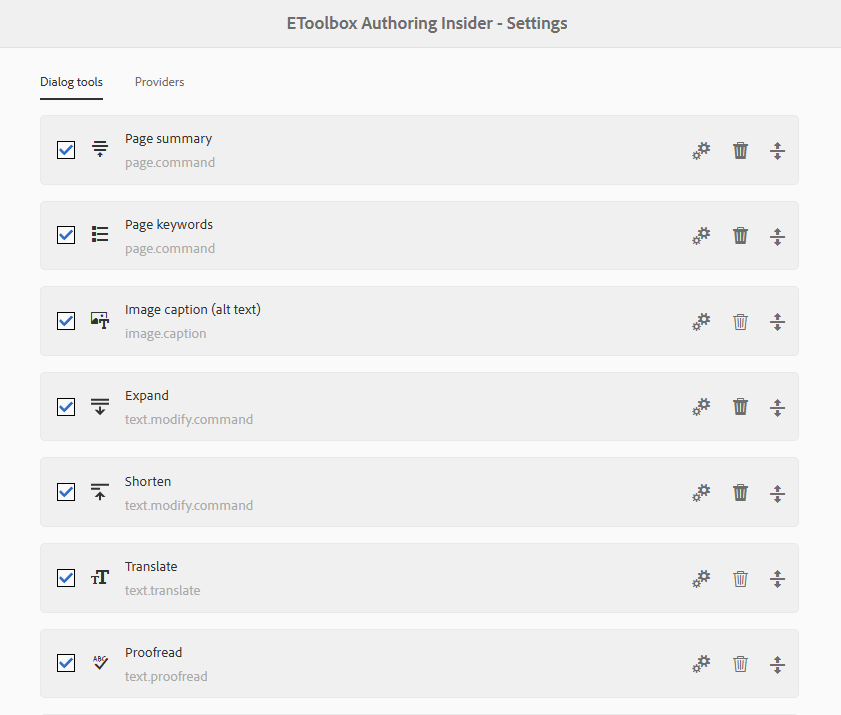
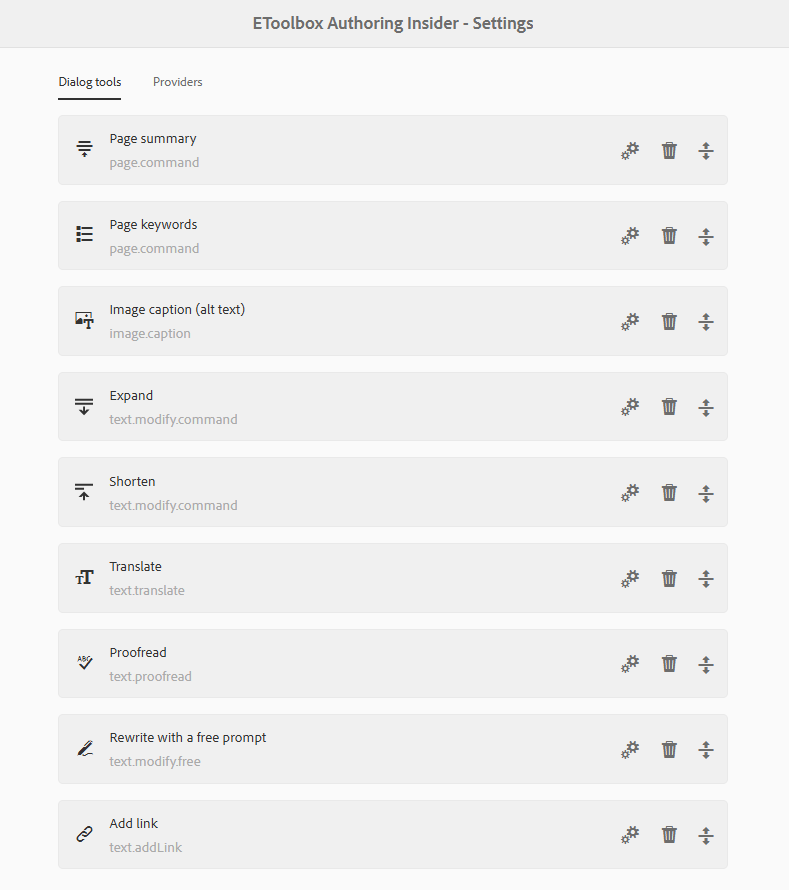
[Tech] Updated the "Setup" section of docs

diff --git a/docs/setup.md b/docs/setup.md
@@ -6,32 +6,33 @@ Follow the _Insider_'s icon to the "EToolbox Authoring Insider - Settings" page.
 
 ### Dialog tools
 
-The *Dialog tools* tab is the list of present tools. Each of the tools can be enabled or disabled with a checkbox. Those tools that are deactivated will not be displayed in tool dropdowns in AEM dialogs.
+The *Dialog tools* tab is the list of present tools. The tools can be dragged up and down. This will, naturally, change their order in a tool dropdown in an AEM dialog.
 
-The tools can be dragged up and down. This will, naturally, change their order in a tool dropdown in an AEM dialog.
-
-The tools can be deleted/cleaned up as well. Mind that a tool that is essentially a variation of a common templated (such as "Expand text") can be removed completely. But a tool which is unique for its own template (such as "Image caption") can only be "cleaned up." That is, the current settings of the tool are erased, but the "template" remains there and can only be disabled. Owing to this, a user always sees all the tools/templates that are technically available and is able to activate or deactivate them as they need.
+You can deactivate or delete a tool by clicking the "Delete" button. If a tool is a variation of common template (_e.g., "Expand text" which is a variation of "Text-modifying command"_), this variation is removed completely. But if a tool is singular (_e.g., "Image caption"_), it is essentially disabled and can be brought back later on." 
 
 Every tool can be modified by clicking the "Properties" button which opens a properties dialog. Usually the dialog allows altering the title and icon of the tool as well as its enabled status. For AI-powered tools, there is also the possibility to modify prompts and other parameters.
 
 ![Tool properties](img/tool-props.png)
 
+New tools are added by clicking the "Add tool" button. A dialog will open showing templates of tool variations that you can initialize plus the previously disabled tools that you can restore. After you select an option, the property dialog will appear on the screen for the new addition.
+After submitting the dialog, drag the newly created item to a desired position in the list.
+
+!["Add tool" dialog](img/tool-add.png)
+
 #### Field selection
 
 Many tools offer the way to control "Field selection," that is, to what dialog fields in what areas the tool will attach. This setting is a multifield. Every entry is a sort of "rule" that defines the "visibility" of a tool.
 
-A "rule" can be simply a CSS-style selector. Else it can contain one or more key-value pairs optionally preceded by a scope flag and optionally followed by a selector.
+A "rule" can be simply a CSS-style selector. Else it can contain one or more key-value pairs optionally preceded by a "required" flag and optionally followed by a selector.
 ```
-@ name=title|description attribute = "data-attribute" .my-title
+@ name=title|description attribute="data-attribute" .my-title
 
-│ └─────────────────key-value pairs─────────────────┘ └selector┘
+│ └────────────────key-value pairs────────────────┘ └selector┘
 │
 └─ an optional flag that says the rule is a requrement
 ```
 
-A _flag_ is optional and case-insensitive. When present, it defined the "scope" of the tool. Use _dialog_ for tools that must only be visible insider component's dialogs. Use _properties_ or _page properties_ for tools that must only be visible in page properties.
-
-A key-value pair must start with one of the keys enumerated below, followed by one of the equals/includes operators and a value. A value containing spaces must be enclosed in quotes. You can specify several alternative values  separated with `|`.
+A key-value pair must start with one of the keys enumerated below, followed by one of the equals/includes operators and a value. A value containing spaces must be enclosed in quotes. You can specify several alternative values separated with `|`.
 
 Between the key and the value in a key-value pair, the following operators can be used:
 - _=_ exactly equals;
@@ -51,7 +52,9 @@ We process the following keys:
 - _tab_ - the name of the tab in the dialog.
 - _ui_ - the type of interface the current field is in. Valid options are "dialog", "properties" ("page properties"), and "inplace" ("in-place"). Note: this key is only used with `=` and `!=` operators.
 
-Usually, rules are grouped by the logical OR. That is, if there are several rules, the tool will be attached to a field if at least one of the rules is satisfied. However, if a rule is basically a negation (= it contains only key-value pair(s) with the `!=` operator), it is perceived as a generic requirement and is considered before the rest of the rules. You can make any other rule a requirement by prepending `@`. Multiple requirement rules are combined by the logical AND. 
+Usually, rules are grouped by the logical OR. That is, if there are several rules, the tool will be attached to a field if at least one of the rules is satisfied. However, if a rule is basically a negation (= it contains only key-value pair(s) with the `!=` operator), it is perceived as a _requirement_ and is considered before the rest of the rules. 
+
+You can make any other rule behave as a _requirement_ by prepending `@`. Multiple requirement rules are combined by the logical AND. 
 
 Example: consider the following group of rules:
 1) component != "Anchor"
@@ -60,7 +63,7 @@ Example: consider the following group of rules:
 4) name=description, 
 5) name = keywords.
 
-This group of rules contains two requirements: one saying that the component name should not contain the word "Anchor", and another saying that the UI must be of component dialog type. Also, the group contains three alternative options, each saying about a possible field name. _Insider_ will attach the current tool to all dialog fields with the name "title" or "description", or "keywords" except those in the dialogs of "Anchor", "New Anchor" or "Anchor Nav" components.
+This group of rules contains two requirements: one saying that the component name should not contain the word "Anchor", and another saying that the UI must be a component dialog. Also, the group contains three alternative options, each saying about a possible field name. _Insider_ will attach the current tool to all dialog fields with the name "title" or "description", or "keywords" except those in the dialogs of "Anchor", "New Anchor" or "Anchor Nav" components.
 
 Here are some valid examples of "Field selection" rules:
 ```
@@ -74,14 +77,14 @@ component *= "Anchor" field=title           // Will match a field with name "tit
                                     
 ui = dialog href *= "/we-retail/"|"/wknd"   // Will match all fields in dialogs of components located within pages
                                             // under "/we-retail/" or "/wknd/" section of the site. 
-                                            // But NOT in page properties.
+                                            // But NOT in page properties, and NOT in an in-place editor.
 ```
 
 If the "Field selection" multifield is left empty, the tool is attached to all available text fields and RTEs.
 
 #### Setting up prompt
 
-Some of the tools would allow modifying the LLM prompt. If the label for the prompt textbox says that it supports user input templates, you can make _Insider_ ask for more info before prompting an LLM. An input template is a string enclosed in `{{ }}` brackets. Inside the template, you put the title of dialog and, optionally, the variants to select from. E.g., the prompt `Modify the text to {{ How do you want your text to be modified? }}` will make _Insider_ display an input dialog entitled "How you want your text to be modified?" If a user then enters a text like "comply with standards", the actual prompt sent to an LLM will be "Modify the text to comply with standards".
+Some tools would allow modifying the LLM prompt. If the label for the prompt textbox says that it supports user input templates, you can make _Insider_ ask for more info before prompting an LLM. An input template is a string enclosed in `{{ }}` brackets. Inside the template, you put the title of dialog and, optionally, the variants to select from. E.g., the prompt `Modify the text to {{ How do you want your text to be modified? }}` will make _Insider_ display an input dialog entitled "How you want your text to be modified?" If a user then enters a text like "comply with standards", the actual prompt sent to an LLM will be "Modify the text to comply with standards".
 
 There is a way to display a select list instead of a text input. To do this, you need to put inside the brackets several variants separated by `|`. E.g., the prompt `Modify the text to {{ How do you want your text to be modified? | comply with standards | be more concise | be more engaging }}` will make _Insider_ display a select list with three options.
 
@@ -95,11 +98,7 @@ You can specify the filter and a pair of "min width and height - max width and h
 
 If there are several image renditions that fall into the filter, _Insider_ will select the one with the smallest byte size.
 
-Since not all image formats are currently supported by OpenAI and similar LLMs, _Insider_ will try to convert an incompatible format (that is, not one of "jpeg", "png", "gif", or "webp") to PNG. The conversion is done by the AEM instance itself. It may fail if a required image codec is not installed on the server.
-
-#### Adding a new dialog tool
-
-Click the "Add tool" button to add another template-based tool (or "variation"). Select the template in the dialog that opens, and wait for the complete tool properties dialog to appear. After submitting the dialog, drag the newly created tool variation to a desired position in the list. 
+Since not all image formats are currently supported by OpenAI and similar LLMs, _Insider_ will try to convert an incompatible format (that is, not one of "jpeg", "png", "gif", or "webp") to PNG. The conversion is done by the AEM instance itself. It might fail if a required image codec is not installed on the server.
 
 ### Providers
 
@@ -130,4 +129,4 @@ If a tool introduces multiple requirements, a provider must match _all_ of them 
 
 #### Adding a new provider
 
-Click the "Add provider" button to add a new provider. Select the provider type in the dialog that opens, and wait for the complete provider properties dialog to appear. After submitting the dialog, drag the newly created provider to a desired position in the list.
+Click the "Add provider" button to add a new provider. Select the provider type (or a previously deactivated singular provider instance: same as with _tools_) in the dialog that opens. Wait for the provider properties dialog to appear. After submitting the dialog, drag the newly created provider to a desired position in the list.

diff --git a/README.md b/README.md
@@ -24,7 +24,7 @@ _Insider_ appends to input fields (text fields, textarea-s, RTE fields) and prov
 
 Every tool is a separate JS script that follows a certain format and is registered in the framework. There are out-of-box tools/scripts. Users can create tools/scripts of their own. Also, users can define for each tool for what fields it is available.
 
-There are also tool **templates** that allow creating tool variations without writing any code. Usually the variations created upon a template differ in their prompts to AI. Other tools are individual (= "equivalent" to their internal template).
+Some tools are actually template-based. It means that a user is able to create a "variation" of the tool without writing any code. Usually the variations differ in their prompts to AI (like "modify the given text &lt;this way&gt; or &lt;that way&gt;").
 
 When a tool requires an integration with AI or some other third-party service, it uses a **provider**. A provider is yet another JS script that implements some logic needed for the integration.
 
@@ -32,7 +32,7 @@ A provider, same as a tool, can be based on a template. A user is able to introd
 
 ### System requirements
 
-_Insider_ is compatible with AEM 6.5.12 and later versions. It requires a Java 8 runtime.
+_Insider_ has been tested with AEM 6.5.12 and is compatible with later AEM versions. It requires at least Java 8 runtime.
 
 ### Installation
 
